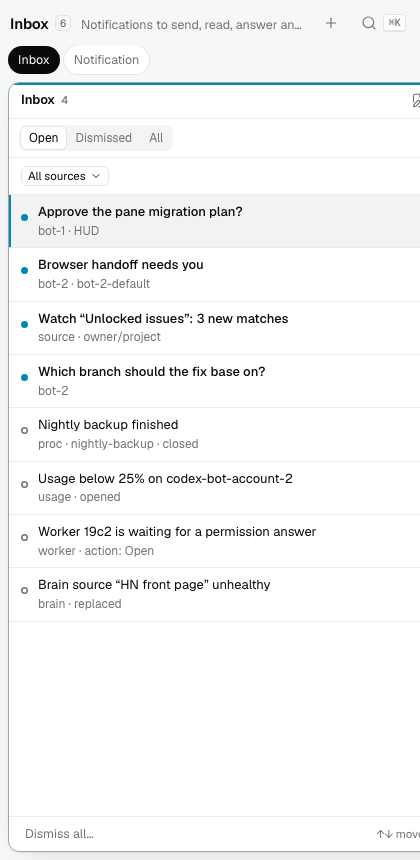
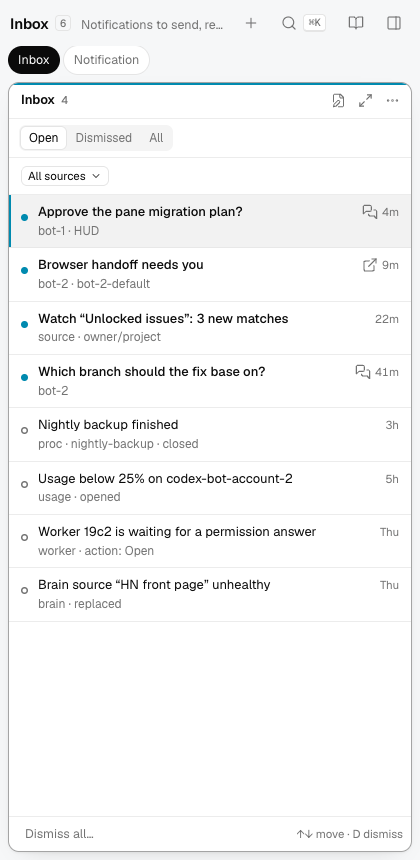
Add narrow space picker, before/after evidence and smoke-tested interactions
Generated with [Devin](https://devin.ai)

diff --git a/packages/ui/prototypes/pane-spaces/shell.js b/packages/ui/prototypes/pane-spaces/shell.js
@@ -171,7 +171,7 @@
     const s = SPACES[S.space], sp = cur();
     const presets = shell() === "strip" ? minimapHTML() : `<div class="seg" role="group" aria-label="Layout">${s.presets.map((p, i) => `<button aria-pressed="${i === sp.preset}" data-preset="${i}" title="${p.name} layout${i === sp.preset ? "" : " · [ ]"}">${glyph(p.tree)}${p.name}</button>`).join("")}</div>`;
     return `${S.back ? `<button class="back" data-act="back">${I("back")}${SPACES[S.back.space].title}</button>` : ""}
-      <div class="sp-title"><h1>${s.title}<span class="k">${s.key}</span></h1><p>${s.description}</p></div>
+      <div class="sp-title">${narrow() ? `<button data-act="overview" class="sp-switch" aria-label="Spaces">` : ""}<h1>${s.title}${narrow() ? I("down") : `<span class="k">${s.key}</span>`}</h1>${narrow() ? "</button>" : ""}<p>${s.description}</p></div>
       <div class="head-tools">${S.space === "scrape" ? `<span class="sp-state" title="The scrape WebSocket closed; panes keep their last reads">${H.dot("bad")}Reconnecting · last read 40s ago</span>` : ""}${S.remote ? `<span class="sp-state remote" title="Editing controls require ui:control; sign-in, voice and browser handoff stay local">${I("lock")}Remote · view only</span>` : ""}${presets}<button class="tool" data-act="picker" title="Add or reopen a pane">${I("plus")}<span class="lbl">Pane</span></button>
       <button class="tool" data-act="palette">${I("search")}<span class="lbl">Search</span><kbd>⌘K</kbd></button>
       <button class="tool" data-act="reference" aria-pressed="${S.drawer.open && S.drawer.mode === "reference"}">${I("book")}<span class="lbl">API</span></button>

diff --git a/packages/ui/prototypes/pane-spaces/styles.css b/packages/ui/prototypes/pane-spaces/styles.css
@@ -450,6 +450,9 @@ html.vt-up::view-transition-new(panes) { animation: vt-down-in var(--vt, 260ms) 
   .pane-switch { display: flex; gap: 4px; overflow-x: auto; padding: 0 8px 8px; flex: none; scrollbar-width: none; }
   .pane-switch button { height: 28px; padding: 0 10px; border-radius: 999px; font-size: 12.5px; color: var(--muted-foreground); background: var(--card); box-shadow: 0 0 0 1px var(--border); white-space: nowrap; }
   .pane-switch button[aria-pressed="true"] { color: var(--background); background: var(--foreground); box-shadow: none; }
+  .sp-switch h1 { display: inline-flex; align-items: center; gap: 4px; }
+  .ov-grid { grid-template-columns: repeat(2, minmax(0, 1fr)); grid-auto-rows: 150px; overflow: auto; }
+  #overview { padding: 4px 8px 8px; }
 }
 
 /* ───────────── Prototype chrome (not part of the design) ───────────── */
